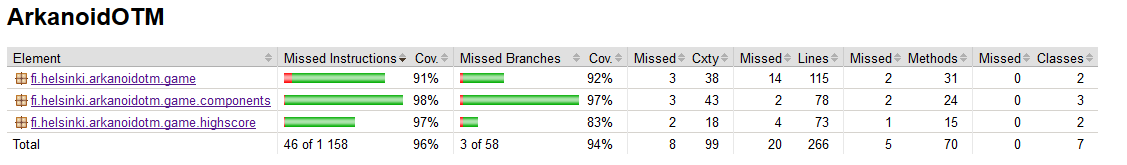
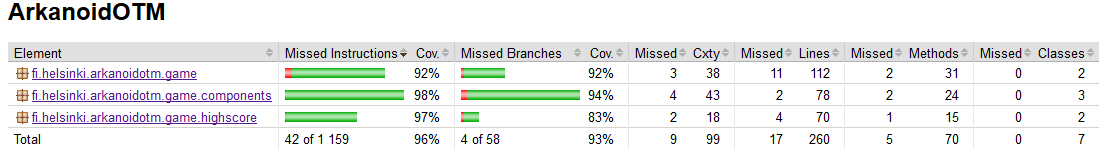
Lopullinen palautus

diff --git a/ArkanoidOTM/src/main/java/fi/helsinki/arkanoidotm/game/highscore/HighScoreDao.java b/ArkanoidOTM/src/main/java/fi/helsinki/arkanoidotm/game/highscore/HighScoreDao.java
@@ -6,15 +6,20 @@
 package fi.helsinki.arkanoidotm.game.highscore;
 
 import com.google.api.client.auth.oauth2.Credential;
-import com.google.api.client.googleapis.auth.oauth2.GoogleCredential;
+import com.google.api.client.extensions.java6.auth.oauth2.AuthorizationCodeInstalledApp;
+import com.google.api.client.extensions.jetty.auth.oauth2.LocalServerReceiver;
+import com.google.api.client.googleapis.auth.oauth2.GoogleAuthorizationCodeFlow;
+import com.google.api.client.googleapis.auth.oauth2.GoogleClientSecrets;
 import com.google.api.client.googleapis.javanet.GoogleNetHttpTransport;
 import com.google.api.client.json.jackson2.JacksonFactory;
+import com.google.api.client.util.store.MemoryDataStoreFactory;
 import com.google.api.services.sheets.v4.Sheets;
 import com.google.api.services.sheets.v4.SheetsScopes;
 import com.google.api.services.sheets.v4.model.BatchGetValuesResponse;
 import com.google.api.services.sheets.v4.model.ValueRange;
-import java.io.File;
 import java.io.IOException;
+import java.io.InputStream;
+import java.io.InputStreamReader;
 import java.security.GeneralSecurityException;
 import java.util.ArrayList;
 import java.util.Arrays;
@@ -33,15 +38,15 @@ public class HighScoreDao {
      * @throws GeneralSecurityException 
      */
     public static Credential authorize() throws IOException, GeneralSecurityException {
-        File file = new File(HighScoreDao.class.getResource("/ArkanoidP12.p12").getFile());
-        List<String> scopes = Arrays.asList(SheetsScopes.SPREADSHEETS);
-        return new GoogleCredential.Builder()
-            .setTransport(GoogleNetHttpTransport.newTrustedTransport())
-            .setJsonFactory(JacksonFactory.getDefaultInstance())
-            .setServiceAccountId("arkanoidhighscore@arkanoid-202811.iam.gserviceaccount.com")
-            .setServiceAccountScopes(scopes)
-            .setServiceAccountPrivateKeyFromP12File(file)
-            .build();
+        InputStream in = HighScoreDao.class.getResourceAsStream("/google-sheets-client-secret.json");
+        GoogleClientSecrets clientSecrets = GoogleClientSecrets.load(JacksonFactory.getDefaultInstance(), new InputStreamReader(in));
+        
+        List<String> scopes = Arrays.asList(SheetsScopes.DRIVE_FILE);
+        
+        GoogleAuthorizationCodeFlow flow = new GoogleAuthorizationCodeFlow.Builder(GoogleNetHttpTransport.newTrustedTransport(), JacksonFactory.getDefaultInstance(), clientSecrets, scopes).setDataStoreFactory(new MemoryDataStoreFactory())
+                .setAccessType("offline").build();
+        Credential credential = new AuthorizationCodeInstalledApp(flow, new LocalServerReceiver()).authorize("user");
+        return credential;
     }
     /**
      * Luo Google Sheets olion.
@@ -60,7 +65,7 @@ public class HighScoreDao {
     
     /**
      * Lukee vanhan pienimmän arvon pistetaulukosta.
-     * @param line rivi johon kirjoitetaan sheetissä
+     * @param line rivi johon kirjoitetaan sheetissä.
      * @return palauttaa pienimmän arvon.
      * @throws IOException ohjelman ulkopuolinen virhe
      * @throws GeneralSecurityException 

diff --git a/ArkanoidOTM/src/main/java/fi/helsinki/arkanoidotm/game/Game.java b/ArkanoidOTM/src/main/java/fi/helsinki/arkanoidotm/game/Game.java
@@ -202,7 +202,7 @@ public class Game extends JPanel {
     public void reduceNumOfBlocks() {
         numBlocks--;
         score.scoreGainForBlock();
-        if (numBlocks <= 27) {
+        if (numBlocks <= 0) {
             inputHighScore();
         }
     }
@@ -242,7 +242,6 @@ public class Game extends JPanel {
     }
     /**
      * Kutsuu käyttäjänimensyöttö tekstilaatikkoa ja pysäyttää pelin.
-     * @see fi.helsinki.arkanoidotm.graphics.GameGraphics#renderUsernameBox(Game) 
      */
     public void inputHighScore() {
         if (score.getScore() > 0) {
@@ -252,10 +251,9 @@ public class Game extends JPanel {
     }
     
     /**
-     * Kutsuu HighScoreen kirjoitusta ja odottaa Google sheetin skriptiä.
+     * Kutsuu HighScoreen kirjoitusta.
      * Voittaa pelin ja resetoi sen uutta peliä varten.
      * @param user käyttäjänimi
-     * @see fi.helsinki.arkanoidotm.game.highscore.HighScore#WriteScoreIfHighScore(HighScore, String) 
      */
     public void won(String user) {
         score.writeScoreIfHighScore(score.getScore(), user);

diff --git a/dokumentaatio/arkkitehtuuri.md b/dokumentaatio/arkkitehtuuri.md
@@ -28,7 +28,6 @@ Pelin ja sen komponenttien suhdetta kuvaava luokkakaavio:
 <img src="https://raw.githubusercontent.com/wood101/otm-harjoitustyo/master/dokumentaatio/kuvat/luokkakaavio.png">
 
 ### Sekvenssikaavio
-
 Muutamia olennaisimpia toiminnallisuuksia kuvaava sekvenssikaavio, liittyen lähinnä pallon toimintaan:
 <br>
 <img src="https://raw.githubusercontent.com/wood101/otm-harjoitustyo/master/dokumentaatio/kuvat/sekvenssikaavio.png">
@@ -36,17 +35,15 @@ Muutamia olennaisimpia toiminnallisuuksia kuvaava sekvenssikaavio, liittyen läh
 
 ## Tietojen pysyväistallennus
 
-HighScore-taulukko on tallennettu vapaasti muokattavissa olevaan [Google Sheettiin](https://docs.google.com/spreadsheets/d/1QQmmAWKtWSMejc_26vOyew0qZg_niVJ9I0AAVfF9tuE/edit?usp=sharing), josta sovellus lukee ja jonne sovellus kirjoittaa. Tietojen luku ja kirjoitus löytyy [HighScoreDao.java](https://github.com/wood101/otm-harjoitustyo/blob/master/ArkanoidOTM/src/main/java/fi/helsinki/arkanoidotm/game/highscore/HighScoreDao.java) luokasta.
+HighScore-taulukko on tallennettu vapaasti muokattavissa olevaan Google Sheettiin, josta sovellus lukee ja jonne sovellus kirjoittaa. Tietojen luku ja kirjoitus löytyy [HighScoreDao.java](https://github.com/wood101/otm-harjoitustyo/blob/master/ArkanoidOTM/src/main/java/fi/helsinki/arkanoidotm/game/highscore/HighScoreDao.java) luokasta.
 [Sheetissä](https://docs.google.com/spreadsheets/d/1QQmmAWKtWSMejc_26vOyew0qZg_niVJ9I0AAVfF9tuE/edit?usp=sharing) on skripti, joka järjestää aina muutoksen jälkeen tulokset suuruusjärjestykseen.
 
 
 ## Ohjelman rakenteeseen jääneet heikkoudet
 
-Jar ei toimi oikein, sillä se ei löydä tiedostopolkua, jossa on valtuudet Sheettiin kirjoittamista varten.
-
 ### Käyttöliittymä
 
-Sheetin skripti on hidas ja sovelluksen täytyy odottaa sitä hetken.
+Tiedon tallennus ja luku vaatii Google käyttäjän. Vaikka tämä tapahtuukin vain jos voittaa pelin ja silloinkin sen voi sivuuttaa, niin se on turha välivaihe. Sheetin skripti ei järjestä taulukkoa tarpeeksi nopeasti, uusi rivi näkyy aina huonoimpana arvona.
 
 ### Sovelluslogiikka
 

diff --git a/dokumentaatio/testausdokumentti.md b/dokumentaatio/testausdokumentti.md
@@ -15,9 +15,9 @@ Tärkeimmät testit tapahtuvat Ball-olion testaavassa [BallTest.java](https://gi
 
 ### Testauskattavuus
 
-Käyttöliittymää ja Main-luokkaa huomioimatta sovelluksen testauksen rivikattavuus on 96% ja haarautumakattavuus 94%
+Käyttöliittymää ja Main-luokkaa huomioimatta sovelluksen testauksen rivikattavuus on 96% ja haarautumakattavuus 93%
 
-<img src="https://raw.githubusercontent.com/wood101/otm-harjoitustyo/master/dokumentaatio/kuvat/jacoco.png">
+<img src="https://raw.githubusercontent.com/wood101/otm-harjoitustyo/master/dokumentaatio/kuvat/jacoco.png">>
 
 
 ### Asennus
@@ -30,4 +30,4 @@ Kaikki [perustoiminnallisuudet](http://github.com/wood101/otm-harjoitustyo/blob/
 
 ## Sovellukseen jääneet laatuongelmat
 
-Taulukkotesti kirjoittaa käytössäolevaan taulukkoon testidataa.
+Sovellus vaatii Google tunnuksen taulukon lukua ja kirjoitusta varten.

diff --git a/dokumentaatio/kayttoohje.md b/dokumentaatio/kayttoohje.md
@@ -22,7 +22,9 @@ Uuden pelin voi aloittaa painamalla uudestaan ENTER.
 
 Kun kaikki palikat on tuhottu, niin voit syöttää maksimissaan 8 merkkisen käyttäjänimen, joka lisätään Enter -nappulasta pisteisiin, jos ne olivat riittävän korkeat. Toisesta napista voi aloittaa suoraan uuden pelin ilman pisteiden tarkastelua tai käyttäjänimen syöttämistä. 
 
-Tämän jälkeen pistetaulukko näytetään.
+<img src="https://raw.githubusercontent.com/wood101/otm-harjoitustyo/master/dokumentaatio/kuvat/allow.png">
+
+Tämän jälkeen avautuu selaimesta sivu, johon voit hyväksyä google sheetin avaamisen, jonka jälkeen pistetaulukko näytetään.
 
 <img src="https://raw.githubusercontent.com/wood101/otm-harjoitustyo/master/dokumentaatio/kuvat/highscore.png">
 

diff --git a/dokumentaatio/tyoaikakirjanpito.md b/dokumentaatio/tyoaikakirjanpito.md
@@ -21,5 +21,6 @@
 | 10.5. | 3    | Viimeistelyä|
 | 11.5. | 5 | Javadoc ja testit valmiiksi|
 | 11.5. | 2 | Dokumentointi valmiiksi|
+
 <br>
 Tunnit yhteensä: 38
